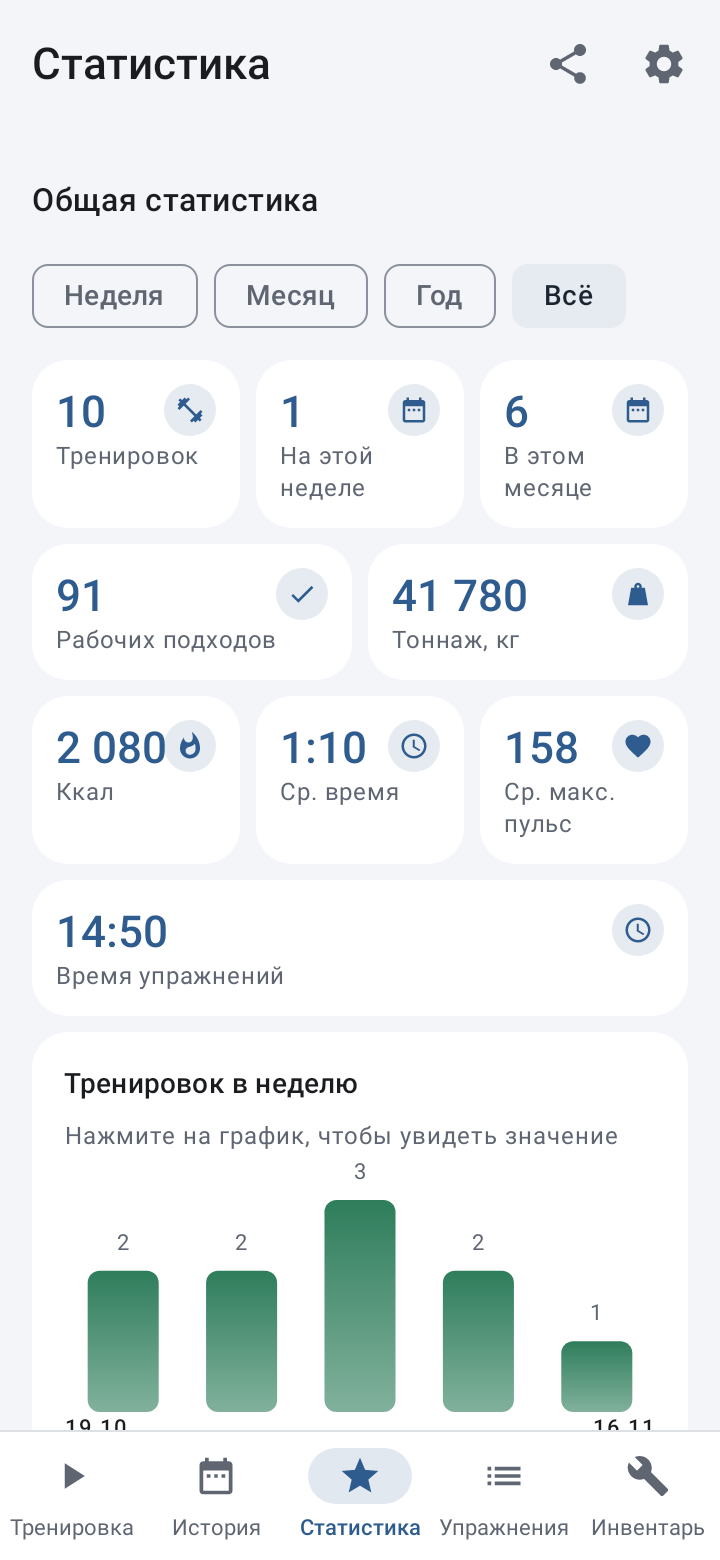
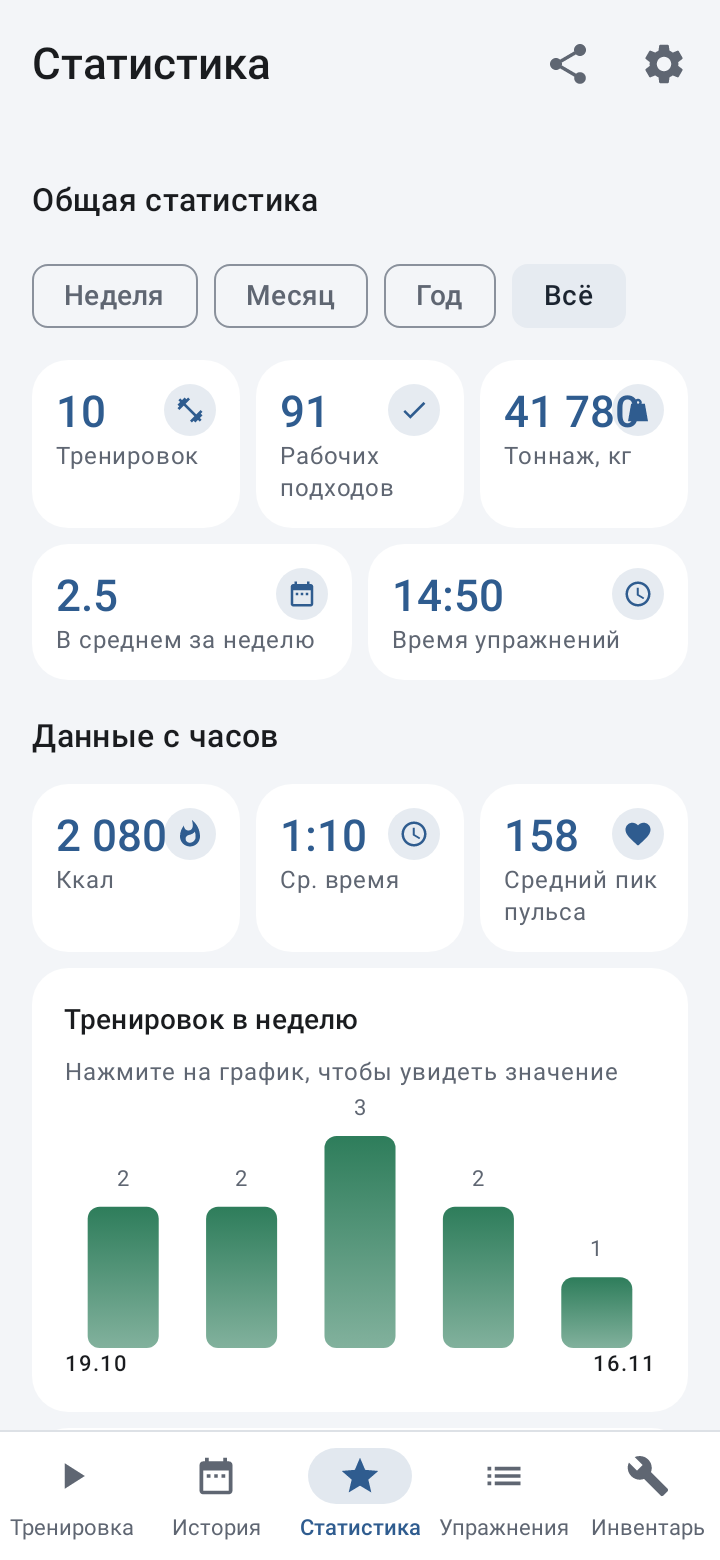
Статистика понятнее: сравнение с прошлым периодом на плитках, «В среднем за неделю» вместо дублей, заголовок «Данные с часов», пояснение расчётного максимума (1.50)

diff --git a/app/src/main/java/com/sonnik/topower/ui/stats/StatsScreen.kt b/app/src/main/java/com/sonnik/topower/ui/stats/StatsScreen.kt
@@ -44,10 +44,12 @@ import com.sonnik.topower.ui.common.LineChart
 import com.sonnik.topower.ui.common.ScreenScaffold
 import com.sonnik.topower.ui.common.SectionCard
 import com.sonnik.topower.ui.common.SectionTitle
+import com.sonnik.topower.ui.common.StatDelta
 import com.sonnik.topower.ui.common.StatRow
 import com.sonnik.topower.ui.common.kg
 import com.sonnik.topower.ui.share.ShareResultsButton
 import com.sonnik.topower.ui.workout.formatHoursMinutes
+import java.time.Instant
 import java.time.LocalDate
 import java.time.ZoneId
 import java.time.format.DateTimeFormatter
@@ -76,17 +78,47 @@ fun StatsScreen(openExercise: (String) -> Unit) {
         }
         val zone = ZoneId.systemDefault()
         val today = LocalDate.now(zone)
-        // Всё, кроме плиток «На этой неделе» и «В этом месяце», считаем только за выбранный период.
+        // Всё считаем только за выбранный период; конечные периоды ещё и сравниваются с предыдущим таким же.
         val start = period.start(today, zone) ?: Long.MIN_VALUE
         val periodDates = remember(workoutDates, start) { workoutDates.filter { it >= start } }
         val periodSets = remember(sets, start) { sets.filter { it.workoutDate >= start } }
         val periodWorkouts = workouts.filter { it.startedAt >= start }
         val periodWeights = bodyWeights.filter { it.startedAt >= start }
-        val overall = remember(workoutDates, sets) {
-            computeOverallStats(workoutDates, sets.map { it.toRecord() }, today, zone)
-        }
         val inPeriod = remember(periodDates, periodSets) {
             computeOverallStats(periodDates, periodSets.map { it.toRecord() }, today, zone)
+        }
+        // Прошлый период того же размера: неделя — предыдущие 7 дней, год — предыдущий год.
+        val prevStart = period.days?.let { today.minusDays(2 * it - 1).atStartOfDay(zone).toInstant().toEpochMilli() }
+        val prevStats = remember(workoutDates, sets, prevStart, start) {
+            if (prevStart == null) null
+            else computeOverallStats(
+                workoutDates.filter { it in prevStart until start },
+                sets.filter { it.workoutDate in prevStart until start }.map { it.toRecord() },
+                today, zone,
+            )
+        }
+        // Плитки «Тренировок» и «Подходов» сравниваются штуками, тоннаж — процентами.
+        fun countDelta(cur: Int): StatDelta? {
+            val prev = prevStats?.totalWorkouts ?: return null
+            val d = cur - prev
+            if (d == 0) return null
+            return StatDelta((if (d > 0) "+" else "−") + kotlin.math.abs(d), d > 0)
+        }
+        fun percentDelta(cur: Double, prev: Double?): StatDelta? {
+            if (prev == null || prev <= 0.0) return null
+            val p = (cur - prev) / prev * 100.0
+            if (kotlin.math.abs(p) < 0.5) return null
+            return StatDelta((if (p > 0) "+" else "−") + formatNumber(kotlin.math.abs(p), 0) + " %", p > 0)
+        }
+        // Калории за прошлый период — из карточек тренировок (часы), для дельты плитки ккал.
+        val prevWorkoutCalories = prevStart?.let { ps ->
+            val c = workouts.filter { it.startedAt in ps until start }.mapNotNull { it.calories }
+            if (c.isEmpty()) null else c.sum().toDouble()
+        }
+        // Темп: тренировок в неделю. Для «всего времени» — от первой тренировки.
+        val weeks = period.days?.let { it / 7.0 } ?: run {
+            val firstDay = Instant.ofEpochMilli(workoutDates.min()).atZone(zone).toLocalDate()
+            maxOf(1.0, (today.toEpochDay() - firstDay.toEpochDay() + 1) / 7.0)
         }
         val (bucketUnit, buckets) = remember(workoutDates, period) { activityBuckets(workoutDates, period, today, zone) }
         val workoutsPerExercise = remember(periodSets) {
@@ -109,25 +141,56 @@ fun StatsScreen(openExercise: (String) -> Unit) {
             item { PeriodChips(period, onSelect = { period = it }) }
             item {
                 StatRow(
-                    Stat(stringResource(R.string.stat_total_workouts), inPeriod.totalWorkouts.toString(), AppIcons.Dumbbell),
-                    Stat(stringResource(R.string.stat_this_week), overall.workoutsThisWeek.toString(), Icons.Filled.DateRange),
-                    Stat(stringResource(R.string.stat_this_month), overall.workoutsThisMonth.toString(), Icons.Filled.DateRange),
+                    Stat(
+                        stringResource(R.string.stat_total_workouts),
+                        inPeriod.totalWorkouts.toString(),
+                        AppIcons.Dumbbell,
+                        countDelta(inPeriod.totalWorkouts),
+                    ),
+                    Stat(
+                        stringResource(R.string.stat_total_sets),
+                        formatBig(inPeriod.totalSets.toDouble()),
+                        Icons.Filled.Check,
+                        prevStats?.let { p ->
+                            val d = inPeriod.totalSets - p.totalSets
+                            if (d == 0) null else StatDelta((if (d > 0) "+" else "−") + kotlin.math.abs(d), d > 0)
+                        },
+                    ),
+                    Stat(
+                        stringResource(R.string.stat_tonnage),
+                        formatBig(inPeriod.totalTonnage),
+                        AppIcons.Weight,
+                        percentDelta(inPeriod.totalTonnage, prevStats?.totalTonnage),
+                    ),
                 )
+            }
+            // Темп и редкие метрики за тот же период (подписи — идентификаторы строк: stringResource вне item нельзя).
+            val extraTiles = buildList {
+                add(Triple(R.string.stat_avg_per_week, formatNumber(inPeriod.totalWorkouts / weeks, 1), Icons.Filled.DateRange))
+                if (inPeriod.totalDistanceKm > 0) {
+                    add(Triple(R.string.stat_distance, formatNumber(inPeriod.totalDistanceKm), Icons.Filled.Place))
+                }
+                if (inPeriod.totalDurationSec > 0) {
+                    add(Triple(R.string.stat_duration, formatDuration(inPeriod.totalDurationSec.toInt()), AppIcons.Clock))
+                }
             }
             item {
-                StatRow(
-                    Stat(stringResource(R.string.stat_total_sets), formatBig(inPeriod.totalSets.toDouble()), Icons.Filled.Check),
-                    Stat(stringResource(R.string.stat_tonnage), formatBig(inPeriod.totalTonnage), AppIcons.Weight),
-                )
+                StatRow(*extraTiles.map { (label, value, icon) -> Stat(stringResource(label), value, icon) }.toTypedArray())
             }
-            // Данные со смарт-часов: сумма ккал, средняя длительность и средний максимальный пульс.
+            // Данные со смарт-часов: сумма ккал, средняя длительность и средний пик пульса.
             val calories = periodWorkouts.mapNotNull { it.calories }
             val durations = periodWorkouts.mapNotNull { it.watchDurationSec }
             val maxHrs = periodWorkouts.mapNotNull { it.maxHeartRate }
             if (calories.isNotEmpty() || durations.isNotEmpty() || maxHrs.isNotEmpty()) {
+                item { SectionTitle(stringResource(R.string.stat_watch_data)) }
                 item {
                     StatRow(
-                        Stat(stringResource(R.string.stat_calories), if (calories.isEmpty()) "—" else formatBig(calories.sum().toDouble()), AppIcons.Flame),
+                        Stat(
+                            stringResource(R.string.stat_calories),
+                            if (calories.isEmpty()) "—" else formatBig(calories.sum().toDouble()),
+                            AppIcons.Flame,
+                            percentDelta(calories.sum().toDouble(), prevWorkoutCalories),
+                        ),
                         Stat(
                             stringResource(R.string.stat_avg_duration),
                             if (durations.isEmpty()) "—" else formatHoursMinutes(durations.average().toInt()),
@@ -139,15 +202,6 @@ fun StatsScreen(openExercise: (String) -> Unit) {
                             Icons.Filled.Favorite,
                         ),
                     )
-                }
-            }
-            val extraTiles = buildList {
-                if (inPeriod.totalDistanceKm > 0) add(Triple(R.string.stat_distance, formatNumber(inPeriod.totalDistanceKm), Icons.Filled.Place))
-                if (inPeriod.totalDurationSec > 0) add(Triple(R.string.stat_duration, formatDuration(inPeriod.totalDurationSec.toInt()), AppIcons.Clock))
-            }
-            if (extraTiles.isNotEmpty()) {
-                item {
-                    StatRow(*extraTiles.map { (label, value, icon) -> Stat(stringResource(label), value, icon) }.toTypedArray())
                 }
             }
             item {

diff --git a/app/src/main/java/com/sonnik/topower/ui/common/Common.kt b/app/src/main/java/com/sonnik/topower/ui/common/Common.kt
@@ -160,11 +160,14 @@ fun Card(
     )
 }
 
-/** Плитка статистики: подпись, значение и значок. */
-data class Stat(val label: String, val value: String, val icon: ImageVector? = null)
+/** Изменение показателя к прошлому периоду: «+3» или «−12 %» и направление (рост / падение). */
+data class StatDelta(val text: String, val up: Boolean)
+
+/** Плитка статистики: подпись, значение, значок и изменение к прошлому периоду. */
+data class Stat(val label: String, val value: String, val icon: ImageVector? = null, val delta: StatDelta? = null)
 
 @Composable
-fun StatTile(label: String, value: String, modifier: Modifier = Modifier, icon: ImageVector? = null) {
+fun StatTile(label: String, value: String, modifier: Modifier = Modifier, icon: ImageVector? = null, delta: StatDelta? = null) {
     Card(modifier = modifier) {
         // Значок — в правом верхнем углу, чтобы плитка не становилась выше.
         Box(Modifier.padding(12.dp).fillMaxWidth()) {
@@ -176,6 +179,14 @@ fun StatTile(label: String, value: String, modifier: Modifier = Modifier, icon: 
                     color = MaterialTheme.colorScheme.primary,
                 )
                 Text(label, style = MaterialTheme.typography.bodySmall, color = MaterialTheme.colorScheme.onSurfaceVariant)
+                // Динамика к прошлому периоду: рост — зелёным, падение — красным; без изменения — не показываем.
+                if (delta != null) {
+                    Text(
+                        (if (delta.up) "↑ " else "↓ ") + delta.text,
+                        style = MaterialTheme.typography.labelMedium,
+                        color = if (delta.up) MaterialTheme.colorScheme.tertiary else MaterialTheme.colorScheme.error,
+                    )
+                }
             }
             if (icon != null) {
                 Box(
@@ -197,7 +208,7 @@ fun StatTile(label: String, value: String, modifier: Modifier = Modifier, icon: 
 fun StatRow(vararg tiles: Stat) {
     // Плитки одной высоты, даже если подпись у одной из них в две строки.
     Row(Modifier.fillMaxWidth().height(IntrinsicSize.Min), horizontalArrangement = Arrangement.spacedBy(8.dp)) {
-        tiles.forEach { StatTile(it.label, it.value, Modifier.weight(1f).fillMaxHeight(), it.icon) }
+        tiles.forEach { StatTile(it.label, it.value, Modifier.weight(1f).fillMaxHeight(), it.icon, it.delta) }
     }
 }
 

diff --git a/app/src/main/java/com/sonnik/topower/ui/stats/ExerciseStatsScreen.kt b/app/src/main/java/com/sonnik/topower/ui/stats/ExerciseStatsScreen.kt
@@ -114,6 +114,15 @@ fun ExerciseStatsScreen(exerciseId: String, onBack: () -> Unit) {
                         Stat(stringResource(R.string.stat_max), formatMetric(summary.metric, summary.best.value)),
                         Stat(stringResource(R.string.stat_last), formatMetric(summary.metric, summary.last.value)),
                     )
+                    // 1ПМ — расчётная величина; без пояснения цифра выглядит как реальный подход.
+                    if (summary.metric == Metric.E1RM) {
+                        Text(
+                            stringResource(R.string.metric_e1rm_hint),
+                            style = MaterialTheme.typography.bodySmall,
+                            color = MaterialTheme.colorScheme.onSurfaceVariant,
+                            modifier = Modifier.padding(top = 8.dp),
+                        )
+                    }
                 }
                 item {
                     val gain = formatMetric(summary.metric, summary.gain)

diff --git a/changelog/changelog_ru.md b/changelog/changelog_ru.md
@@ -1,5 +1,11 @@
 # Что нового в SonnikToPower
 
+## 1.50
+- Статистика нагляднее: плитки «Тренировок», «Подходов» и «Тоннаж» показывают сравнение с прошлым периодом — «↑ +3» или «↓ 12 %»
+- Вместо плиток «На этой неделе» и «В этом месяце» — «В среднем за неделю» за выбранный период
+- Плитки со часов теперь под заголовком «Данные с часов»; «Средний макс. пульс» → «Средний пик пульса»
+- В статистике упражнения пояснение, что расчётный максимум вычислен по формуле Эпли, а не выполнен подходом
+
 ## 1.49
 - Приложение стало вчетверо меньше — 2,2 МБ вместо 8,3: включено сжатие R8
 - Обновлены Android SDK 36 и все библиотеки (Compose, Kotlin, Room)

diff --git a/changelog/changelog_en.md b/changelog/changelog_en.md
@@ -1,5 +1,11 @@
 # What's new in SonnikToPower
 
+## 1.50
+- Clearer statistics: the Workouts, Sets and Tonnage tiles now compare against the previous period — “↑ +3” or “↓ 12 %”
+- “This week” and “This month” tiles replaced by “Per week on average” over the selected period
+- Watch tiles are grouped under a “Watch data” heading; “Avg. max heart rate” renamed to “Avg peak HR”
+- Exercise stats explain that the estimated maximum is calculated with the Epley formula, not a set you did
+
 ## 1.49
 - The app is four times smaller — 2.2 MB instead of 8.3: R8 shrinking enabled
 - Android SDK 36 and all libraries updated (Compose, Kotlin, Room)
